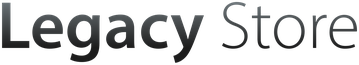
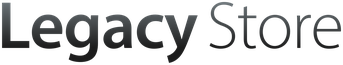
Polish: fat-binary badge clipping, wordmark kerning, search-field corners
- Fat-binary "+" badge was rendering flat-topped (sub-pixel origin quirk
  with the 10x11 png pinned top-left); center it in a slightly taller box
  so it always has margin and shows fully rounded.
- Regenerated the "Legacy Store" wordmark with tighter tracking (~0.6px/
  char), 179px -> 171px; updated the <img> width.
- Header search field: the repeat border was on the wrapper (full width),
  so its straight top/bottom edge poked past the caps' rounded corners.
  Moved it back between the caps (on the input, forced to exactly 19px)
  so the ends stay rounded and the bottom border stays continuous.

diff --git a/src/styles/global.css b/src/styles/global.css
@@ -63,15 +63,16 @@ em { font-style: italic; }
    the bottom border. Caps overlay the ends; the magnifier lives in the left
    cap. The input is fully transparent on top. */
 .ph-search { float: right; margin: 12px 0 0 30px; }
-.ph-search .search-wrapper {
-  position: relative; display: block; width: 158px; height: 19px;
-  background: url(/wsf/nav/searchfield_repeat.png) 0 0 repeat-x;
-}
+.ph-search .search-wrapper { position: relative; display: block; width: 158px; height: 19px; }
 .ph-search .search-wrapper .left { display: block; position: absolute; left: 0; top: 0; width: 20px; height: 19px; background: url(/wsf/nav/searchfield_leftcap.png) left top no-repeat; }
 .ph-search .search-wrapper .right { display: block; position: absolute; right: 0; top: 0; width: 10px; height: 19px; background: url(/wsf/nav/searchfield_rightcap.png) right top no-repeat; }
+/* The repeat middle only spans BETWEEN the caps (the input's box), so its
+   straight top/bottom border can't poke past the caps' rounded corners. The
+   input is exactly 19px (border-box) so the bottom border stays continuous. */
 .ph-search .search-wrapper input {
-  position: absolute; top: 0; left: 20px; right: 10px; margin: 0; padding: 0;
-  height: 19px; line-height: 19px; border: 0; background: transparent;
+  position: absolute; top: 0; left: 20px; right: 10px; margin: 0; padding: 0 0 0 2px;
+  height: 19px; line-height: 19px; border: 0;
+  background: url(/wsf/nav/searchfield_repeat.png) 0 0 repeat-x;
   font: 11px "Lucida Grande", "Lucida Sans Unicode", Arial, Verdana, sans-serif;
   color: #333;
   outline: none;
@@ -172,7 +173,7 @@ em { font-style: italic; }
 #main #content #left-stack span.app-requirements { font-weight: bold; }
 #main #content #left-stack div.fat-binary-blurb { margin-bottom: 12px; zoom: 1; }
 #main #content #left-stack div.fat-binary-blurb:after { content: "."; display: block; height: 0; clear: both; visibility: hidden; }
-#main #content #left-stack div.fat-binary-blurb span.fat-binary-badge { display: block; float: left; width: 14px; height: 14px; margin-right: 5px; margin-top: 2px; background: url(/wsf/images/fat-binary-badge.png) 0 0 no-repeat; text-indent: -9999px; overflow: hidden; }
+#main #content #left-stack div.fat-binary-blurb span.fat-binary-badge { display: block; float: left; width: 14px; height: 16px; margin-right: 6px; margin-top: 1px; background: url(/wsf/images/fat-binary-badge.png) 50% 50% no-repeat; text-indent: -9999px; overflow: hidden; }
 
 /* --------------------------------------------------------- star ratings -- */
 